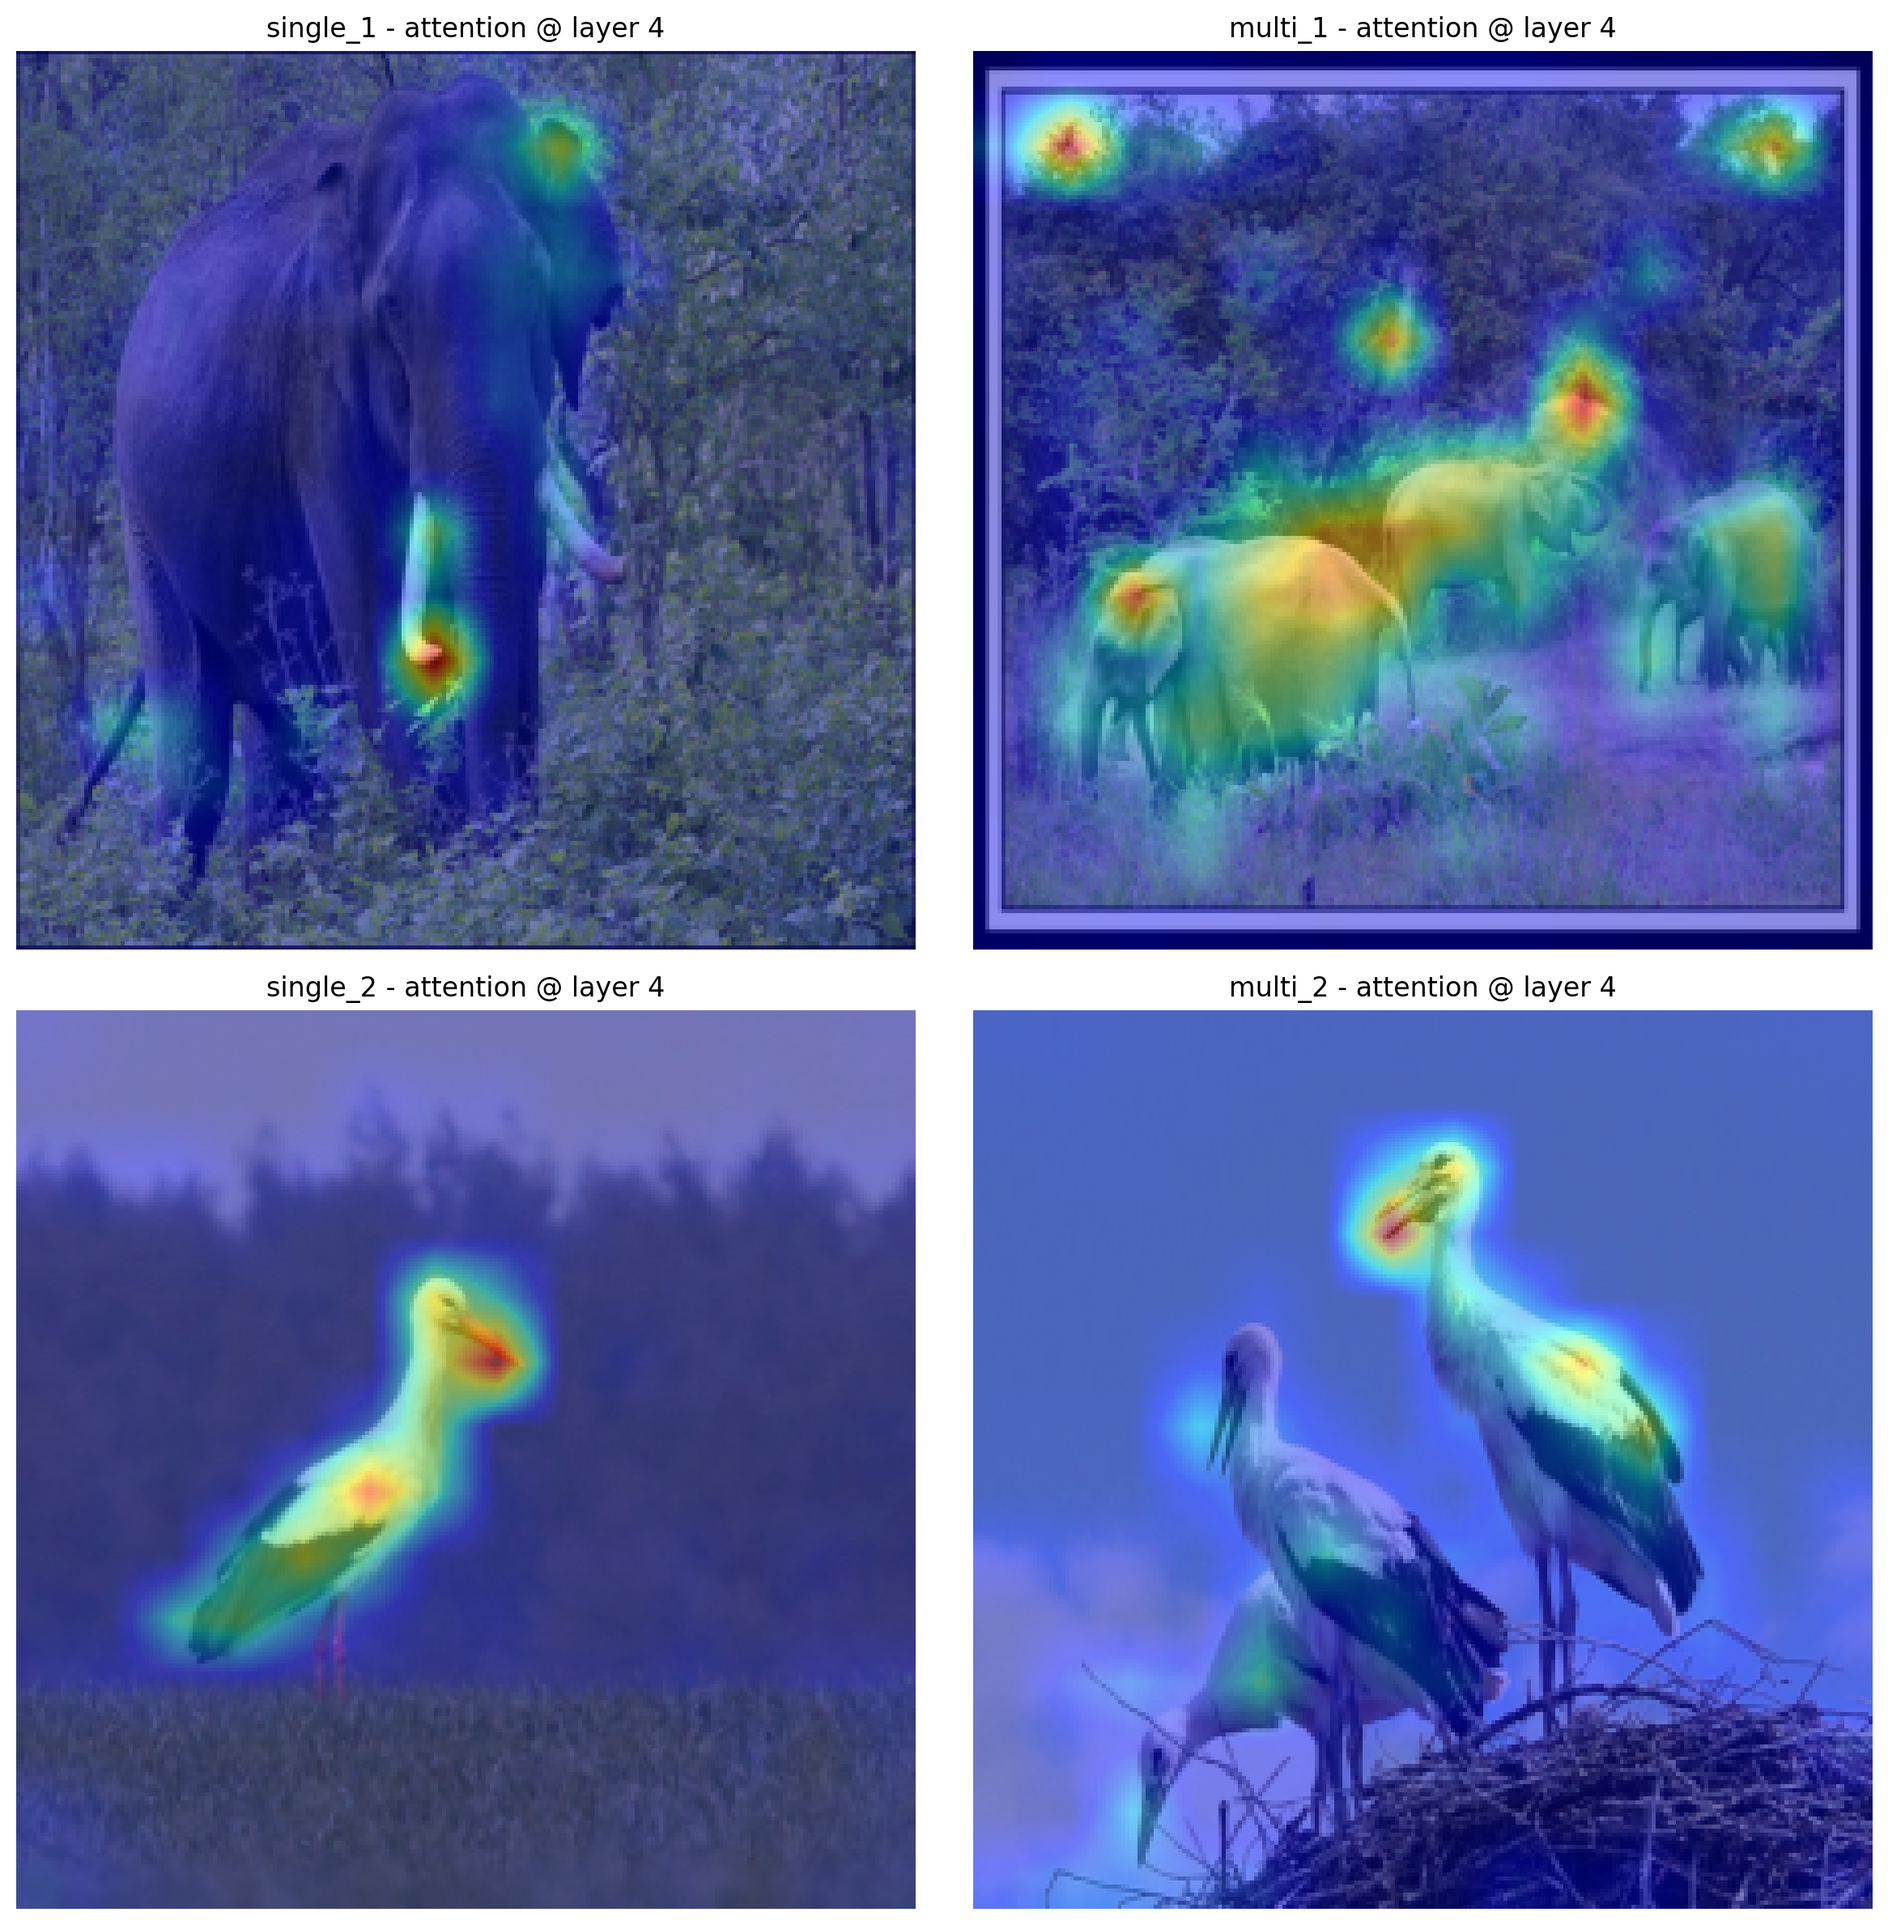
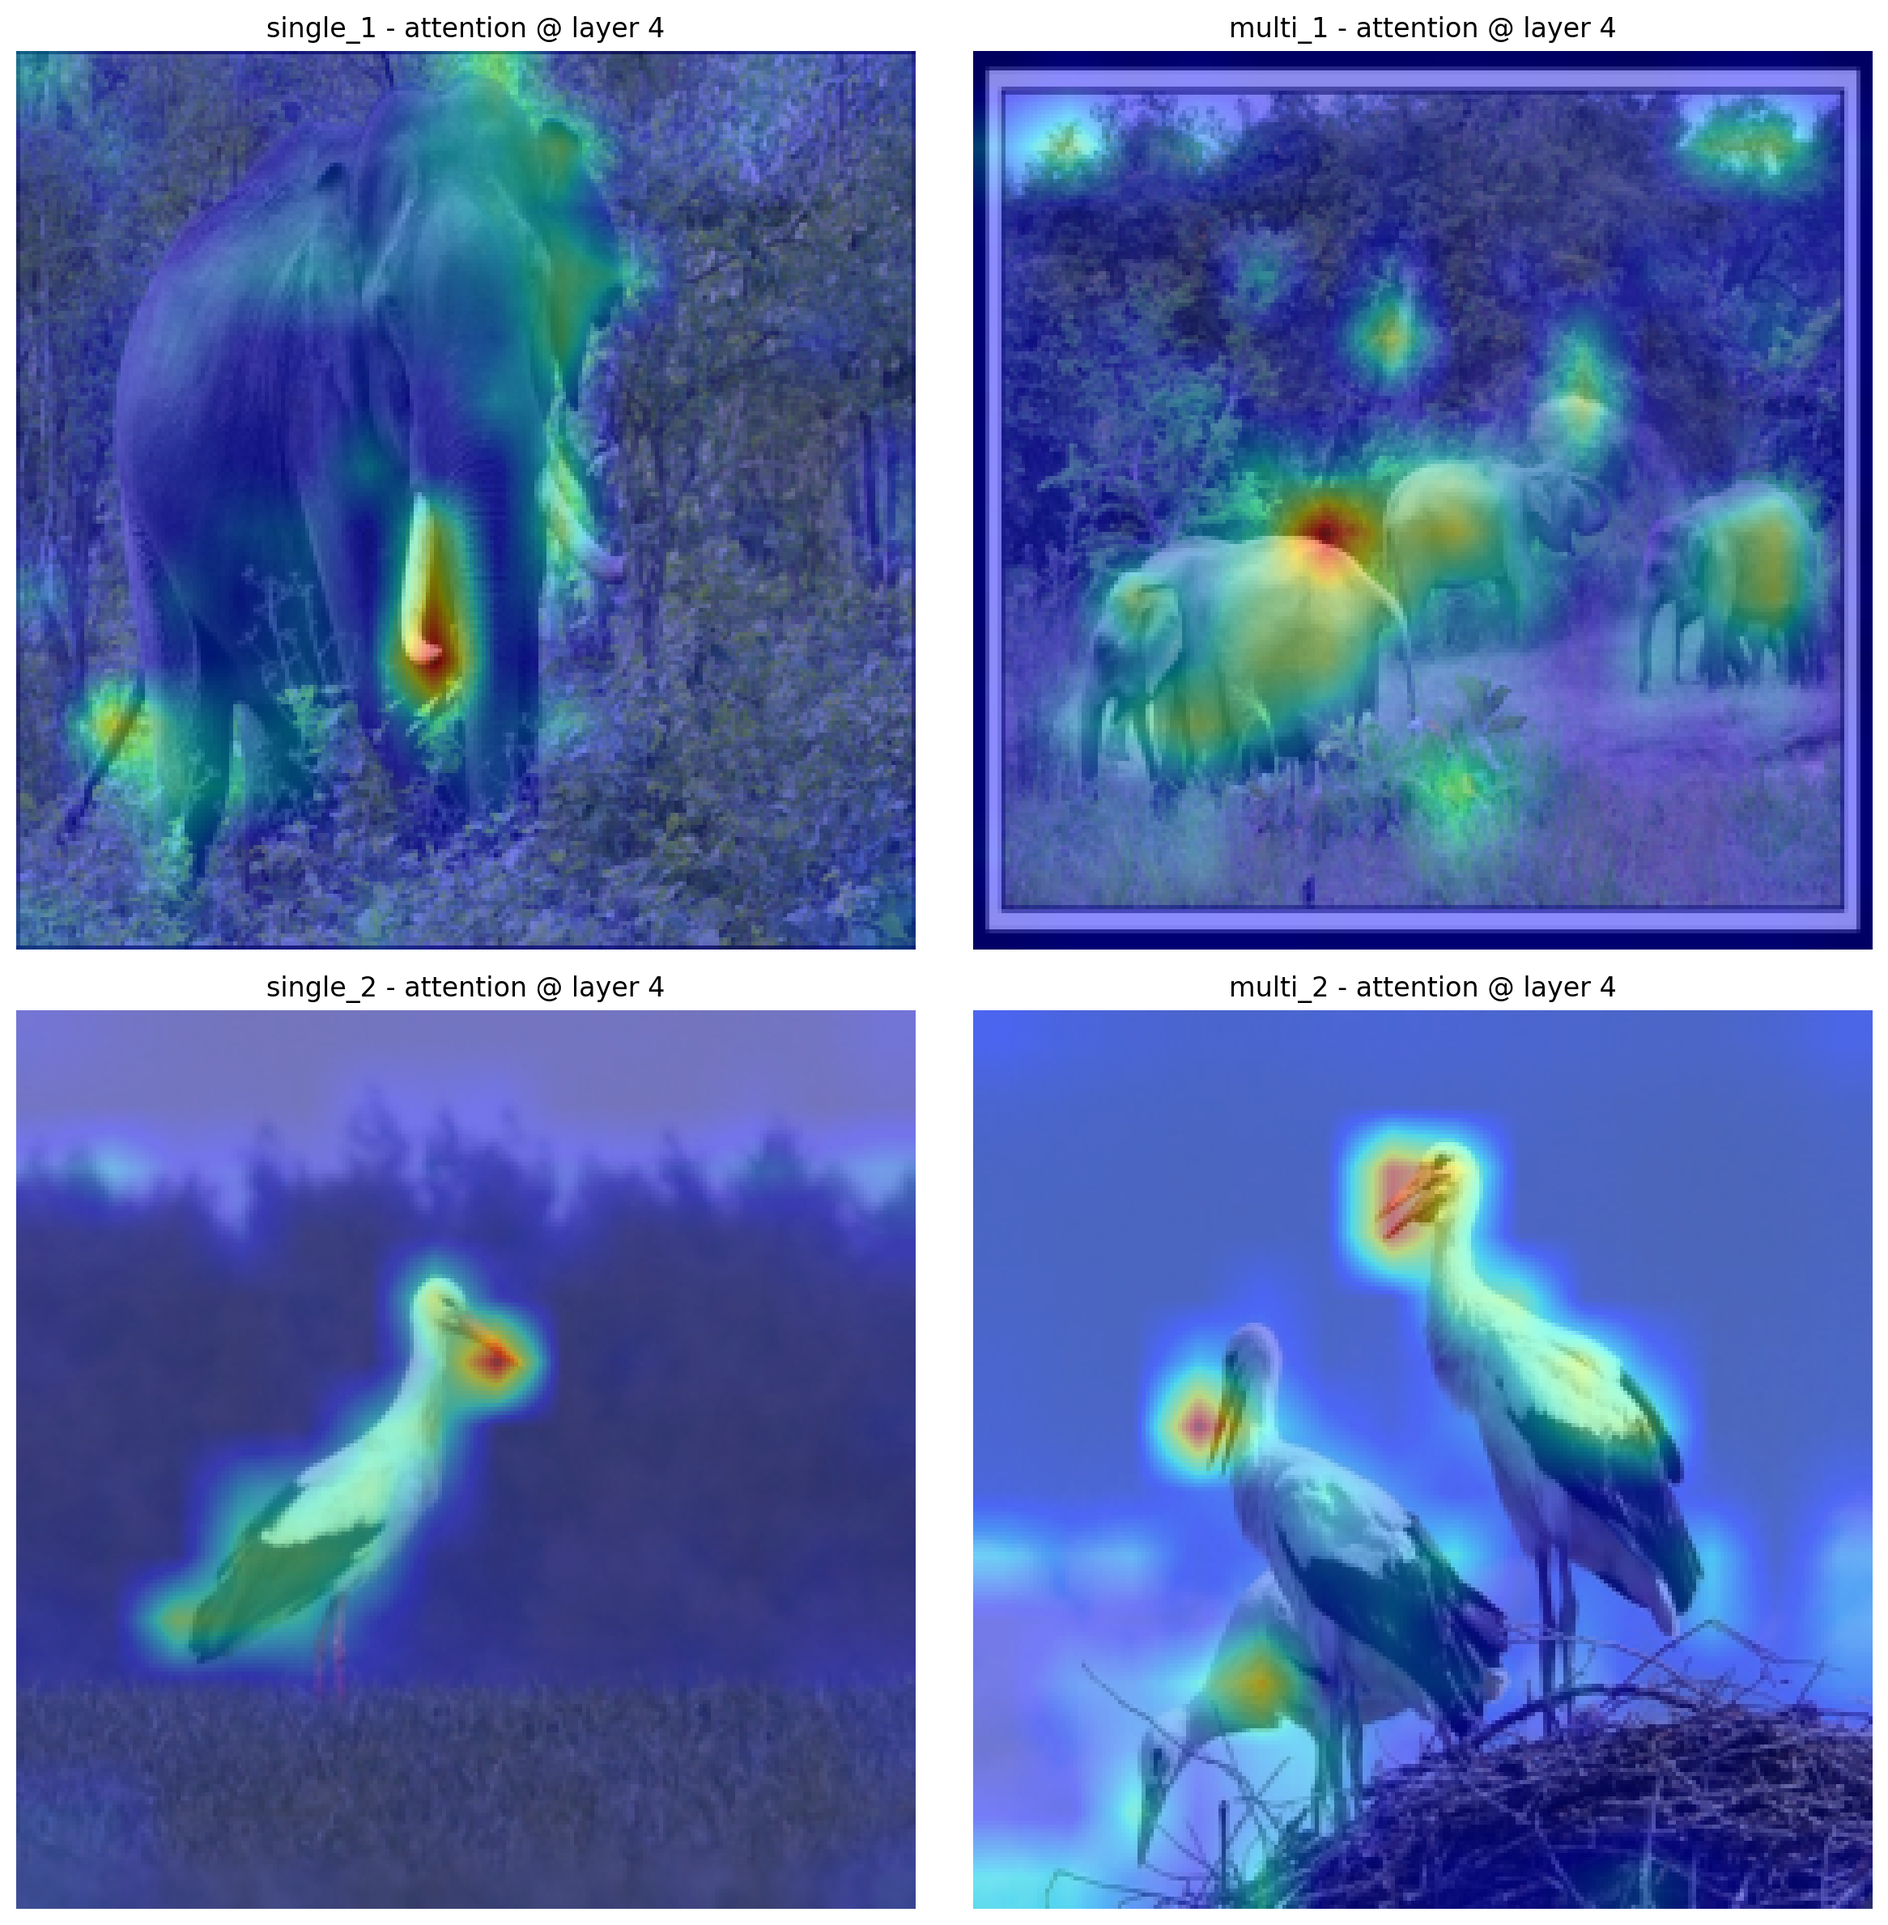
100 epoch vanilla ViT seems fine

diff --git a/src/imagenet_ckpt_vit.py b/src/imagenet_ckpt_vit.py
@@ -776,7 +776,8 @@ def visualize_attention_single_multi_causal(
 
 
 def main():
-    ckpt_path = "/fs/scratch/PAS2836/yusenpeng_checkpoint/imagenet_bidirectional_DRIP/checkpoint.pth"
+    #ckpt_path = "/fs/scratch/PAS2836/yusenpeng_checkpoint/imagenet_bidirectional_DRIP/checkpoint.pth"
+    ckpt_path = "/fs/scratch/PAS2836/yusenpeng_checkpoint/imagenet_bidirectional_DRIP_100epoch/model_99.pth"
     TYPE = "bidirectional" # "bidirectional" or "causal" or "H-Net"
 
     #ckpt_path = "/fs/scratch/PAS2836/yusenpeng_checkpoint/imagenet_causal_DRIP/checkpoint.pth"
